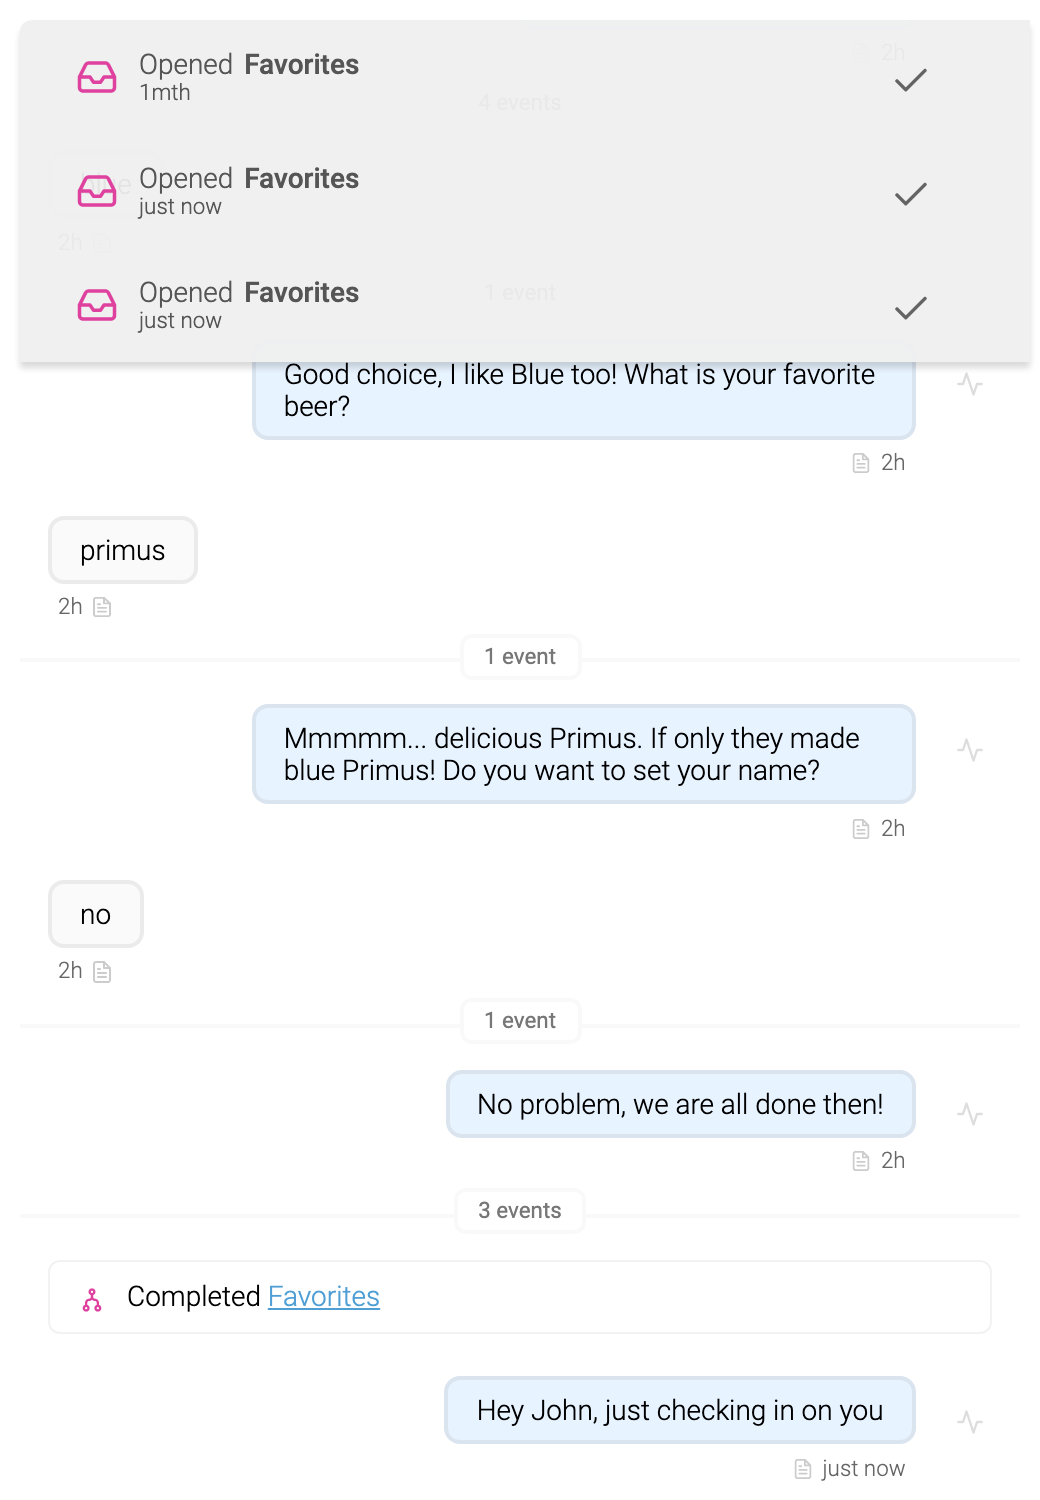
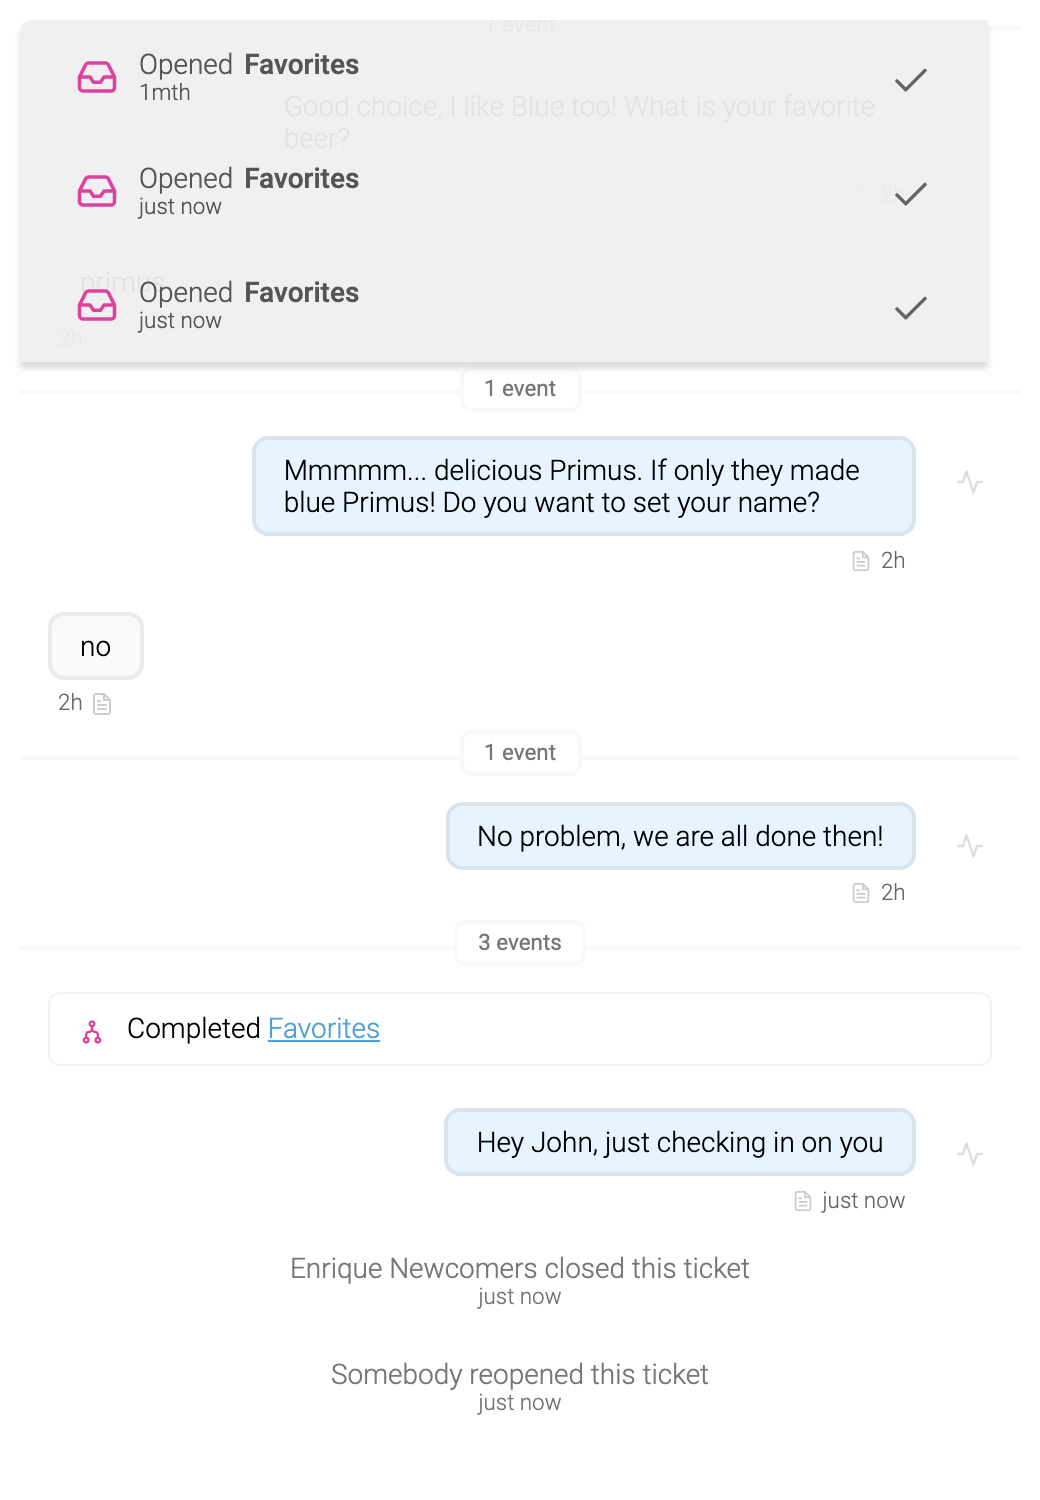
Somebody did a thing

diff --git a/test/temba-contact-history.test.ts b/test/temba-contact-history.test.ts
@@ -74,7 +74,7 @@ describe('temba-contact-history', () => {
     // we should have scrolled to the bottom
     const events = history.shadowRoot.querySelector('.events');
     const top = events.scrollHeight - events.getBoundingClientRect().height;
-    expect(top).to.equal(174);
+    expect(top).to.equal(308);
 
     // make sure we actually scrolled to there
     expect(events.scrollTop).to.equal(top);
@@ -89,7 +89,8 @@ describe('temba-contact-history', () => {
       })
     );
 
-    const groups = [2, 6];
+    // our groups with collapsed events
+    const groups = [3, 11];
     for (const idx of groups) {
       const group = history.shadowRoot.querySelector(
         `[data-group-index='${idx}']`

diff --git a/src/contacts/helpers.ts b/src/contacts/helpers.ts
@@ -76,6 +76,10 @@ export const fetchContactHistory = (
 };
 
 export const getDisplayName = (user: User) => {
+  if (!user) {
+    return 'Somebody';
+  }
+
   if (user.first_name && user.last_name) {
     return `${user.first_name} ${user.last_name}`;
   }
